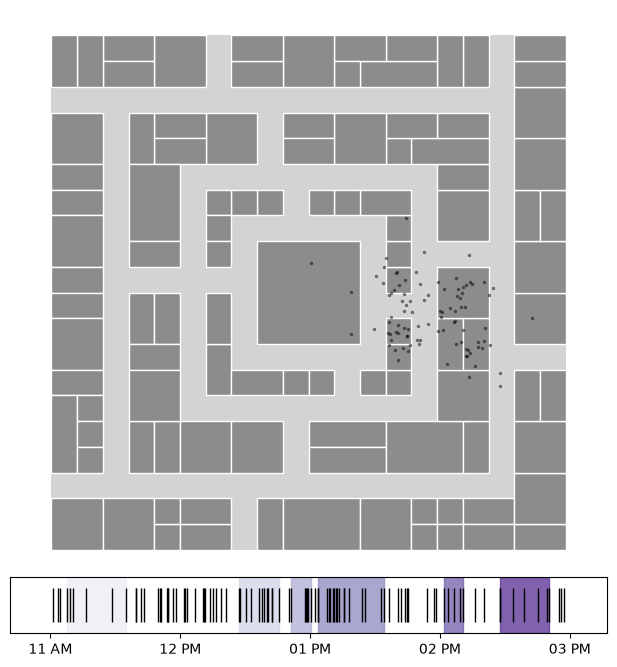
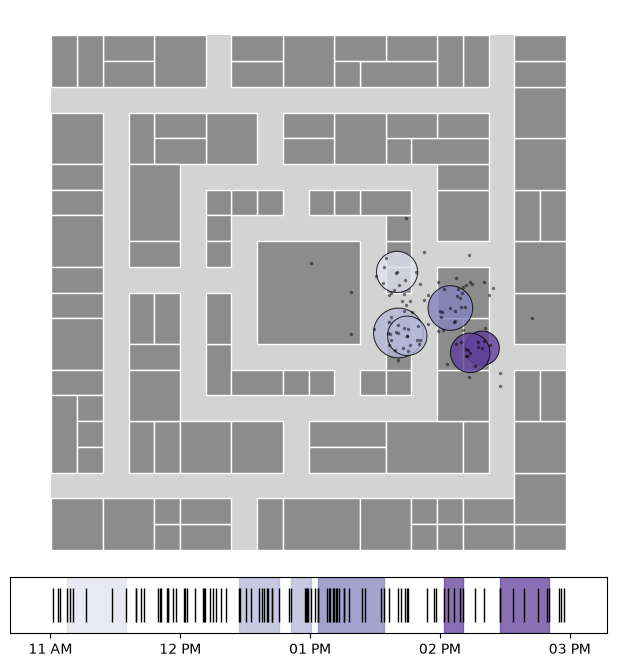
Fix Infostop demo figure so stops are drawn
plot_stops was called without traj_cols, so it could not find dev_x/dev_y
and silently drew nothing. Pass traj_cols, color visits by
location_cluster so repeat visits share a color, and regenerate the docs
image and notebook output with the rebuilt Infostop.

Changed region(s): [[0.5851, 0.3598, 0.8314, 0.5697]]

diff --git a/docs/source/infostop_demo.py b/docs/source/infostop_demo.py
@@ -7,7 +7,7 @@
 #       extension: .py
 #       format_name: percent
 #       format_version: '1.3'
-#       jupytext_version: 1.19.3
+#       jupytext_version: 1.19.6
 #   kernelspec:
 #     display_name: Python 3
 #     language: python
@@ -57,19 +57,25 @@ traj = loader.sample_from_file(filepath_root, format='parquet', users=users, fil
 # Infostop (stationary events clustered with Infomap)
 stops = infostop(traj, r1=20, r2=30, dt_max=60, dur_min=5, complete_output=True, keep_col_names=True, traj_cols=tc)
 
+# %% [markdown]
+# Each circle is one visit: consecutive event pings at the same location, drawn at their medoid and sized by their diameter. Each colored band in the barcode is a visit's time span. Colors show the Infomap `location_cluster`, so separate visits to the same place share a color.
+
 # %%
+# Color by location so separate visits to the same place share a color
+locations = stops.assign(cluster=stops['location_cluster'])
+
 fig, (ax_map, ax_barcode) = plt.subplots(2, 1, figsize=(6,6.5),
                                          gridspec_kw={'height_ratios':[10,1]})
 
 gpd.GeoDataFrame(geometry=[outer_box], crs='EPSG:3857').plot(ax=ax_map, color='#d3d3d3')
 city.plot(ax=ax_map, edgecolor='white', linewidth=1, color='#8c8c8c')
 
-plot_stops(stops, ax=ax_map, cmap='Purples')
+plot_stops(locations, ax=ax_map, cmap='Purples', traj_cols=tc)
 plot_pings(traj, ax=ax_map, s=6, color='black', alpha=0.5, traj_cols=tc)
 ax_map.set_axis_off()
 
 plot_time_barcode(traj['unix_ts'], ax=ax_barcode, set_xlim=True)
-plot_stops_barcode(stops, ax=ax_barcode, cmap='Purples', set_xlim=False, timestamp='unix_ts')
+plot_stops_barcode(locations, ax=ax_barcode, cmap='Purples', set_xlim=False, timestamp='unix_ts')
 
 plt.tight_layout(pad=0.1)
 plt.show()

diff --git a/examples/infostop_demo.py b/examples/infostop_demo.py
@@ -7,7 +7,7 @@
 #       extension: .py
 #       format_name: percent
 #       format_version: '1.3'
-#       jupytext_version: 1.19.3
+#       jupytext_version: 1.19.6
 #   kernelspec:
 #     display_name: Python 3
 #     language: python
@@ -57,19 +57,25 @@ traj = loader.sample_from_file(filepath_root, format='parquet', users=users, fil
 # Infostop (stationary events clustered with Infomap)
 stops = infostop(traj, r1=20, r2=30, dt_max=60, dur_min=5, complete_output=True, keep_col_names=True, traj_cols=tc)
 
+# %% [markdown]
+# Each circle is one visit: consecutive event pings at the same location, drawn at their medoid and sized by their diameter. Each colored band in the barcode is a visit's time span. Colors show the Infomap `location_cluster`, so separate visits to the same place share a color.
+
 # %%
+# Color by location so separate visits to the same place share a color
+locations = stops.assign(cluster=stops['location_cluster'])
+
 fig, (ax_map, ax_barcode) = plt.subplots(2, 1, figsize=(6,6.5),
                                          gridspec_kw={'height_ratios':[10,1]})
 
 gpd.GeoDataFrame(geometry=[outer_box], crs='EPSG:3857').plot(ax=ax_map, color='#d3d3d3')
 city.plot(ax=ax_map, edgecolor='white', linewidth=1, color='#8c8c8c')
 
-plot_stops(stops, ax=ax_map, cmap='Purples')
+plot_stops(locations, ax=ax_map, cmap='Purples', traj_cols=tc)
 plot_pings(traj, ax=ax_map, s=6, color='black', alpha=0.5, traj_cols=tc)
 ax_map.set_axis_off()
 
 plot_time_barcode(traj['unix_ts'], ax=ax_barcode, set_xlim=True)
-plot_stops_barcode(stops, ax=ax_barcode, cmap='Purples', set_xlim=False, timestamp='unix_ts')
+plot_stops_barcode(locations, ax=ax_barcode, cmap='Purples', set_xlim=False, timestamp='unix_ts')
 
 plt.tight_layout(pad=0.1)
 plt.show()

diff --git a/docs/stop_detection.rst b/docs/stop_detection.rst
@@ -160,4 +160,4 @@ Two details differ from the original implementation: longitude medians are not w
    :align: center
    :width: 80%
 
-   Infostop stops. See the :doc:`full example <source/infostop_demo>`.
+   Infostop stops, colored by location cluster. See the :doc:`full example <source/infostop_demo>`.
